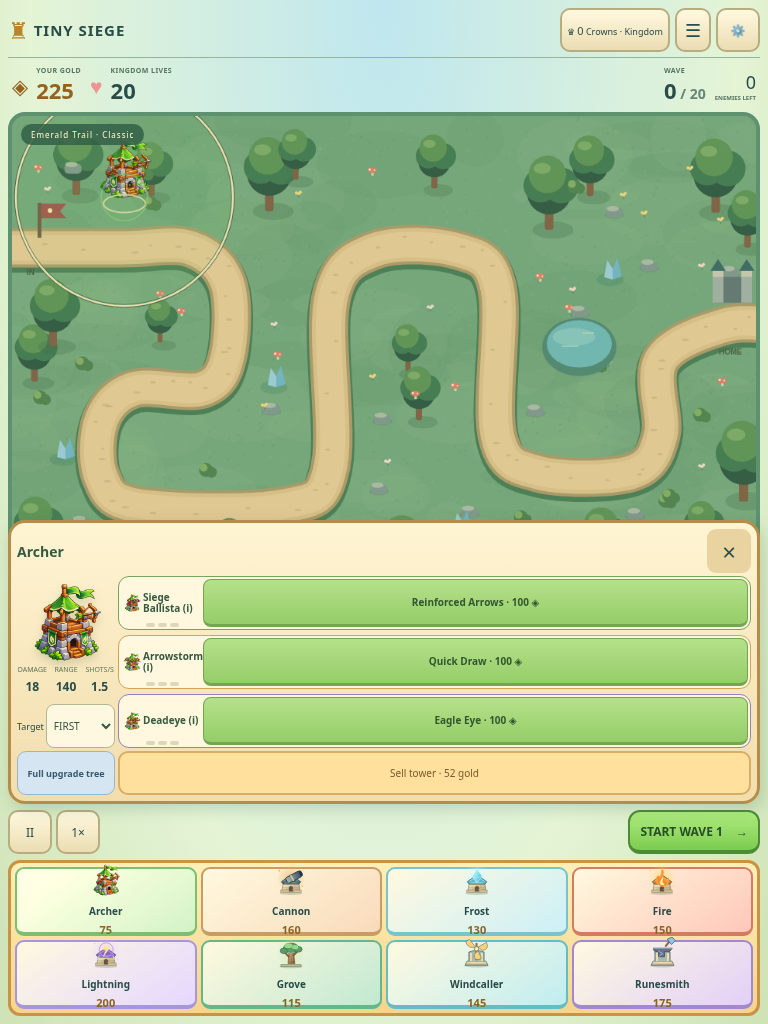
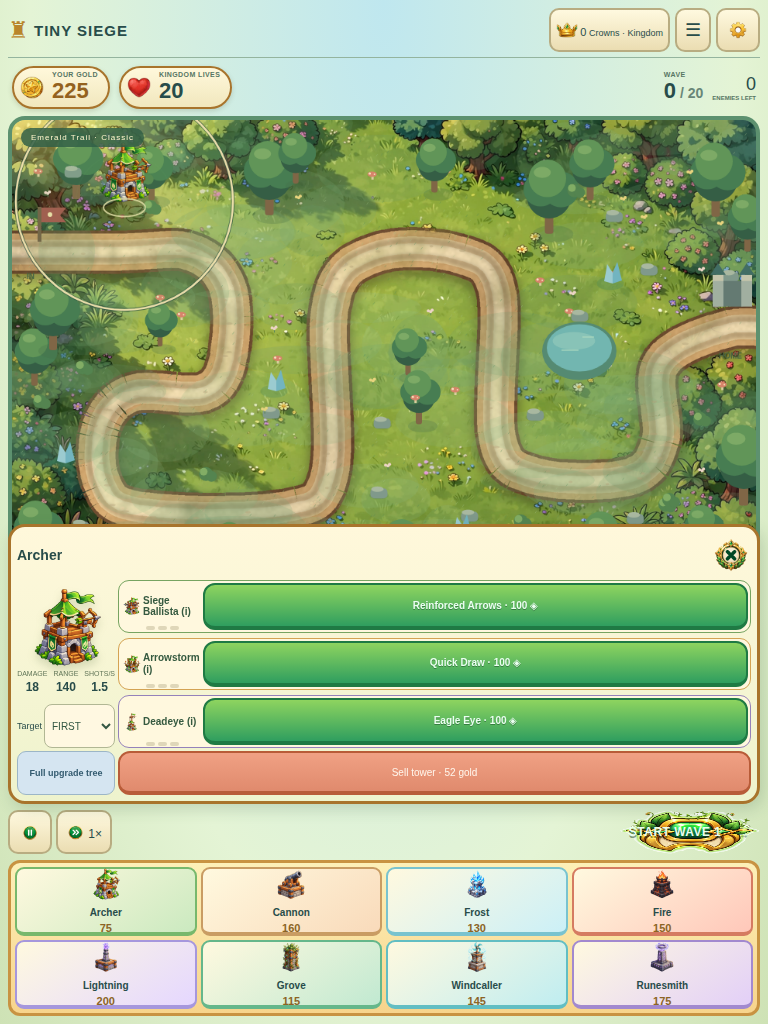
Wire illustrated hero sprites into battle; docs screenshots refresh

diff --git a/src/scenes/GameScene.js b/src/scenes/GameScene.js
@@ -13,6 +13,7 @@ import {
   enemyTexture,
 } from "../enemyArtwork.js";
 import { MAP_IDS, mapArtwork, mapTexture } from "../mapArtwork.js";
+import { heroArtwork, heroTexture } from "../heroArtwork.js";
 import Phaser from "phaser";
 import { textures, battlefield } from "./art.js";
 import {
@@ -61,11 +62,14 @@ export class GameScene extends Phaser.Scene {
             { width: 96, height: 100 },
           );
     }
-    for (const type of Object.keys(HEROES))
+    for (const type of Object.keys(HEROES)) {
       this.load.svg(`hero-${type}`, `${base}heroes/${type}.svg`, {
         width: 80,
         height: 84,
       });
+      if (heroTexture(type))
+        this.load.image(heroTexture(type), base + heroArtwork(type));
+    }
   }
   create() {
     textures(this);
@@ -497,14 +501,16 @@ export class GameScene extends Phaser.Scene {
       }
     const hero = this.model.hero;
     if (hero) {
-      if (!this.heroSprite)
+      if (!this.heroSprite) {
         this.heroSprite = this.add.image(
           hero.x,
           hero.y - 15,
-          `hero-${hero.type}`,
+          heroTexture(hero.type) || `hero-${hero.type}`,
         );
+        if (heroTexture(hero.type)) this.heroSprite.setDisplaySize(72, 72);
+      }
       this.heroSprite
-        .setTexture(`hero-${hero.type}`)
+        .setTexture(heroTexture(hero.type) || `hero-${hero.type}`)
         .setPosition(
           hero.x,
           hero.y - 15 + (this.model.paused ? 0 : Math.sin(time * 0.004) * 2),

diff --git a/src/heroArtwork.js b/src/heroArtwork.js
@@ -1,0 +1,11 @@
+// Illustrated hero sprites. Battle uses the adult stage; cards can use any.
+const FAMILY = { dragon: "dragon", dinosaur: "dino", tiger: "tiger" };
+export const HERO_STAGES = ["baby", "teen", "adult"];
+export function heroArtwork(type, stage = "adult", usage = "battlefield_256") {
+  const fam = FAMILY[type];
+  if (!fam || !HERO_STAGES.includes(stage)) return null;
+  return `assets/v5/heroes/${usage}/hero_${fam}_${stage}.png`;
+}
+export function heroTexture(type) {
+  return FAMILY[type] ? `v5-hero-${type}` : null;
+}

diff --git a/PR_DESCRIPTION.md b/PR_DESCRIPTION.md
@@ -1,0 +1,32 @@
+# Tiny Siege V5 — Illustrated UI & Full Artwork Integration (DRAFT — do not merge)
+
+Integrates the complete approved artwork package and the V5 illustrated UI.
+
+## Artwork imported
+
+- **Towers:** all 8 towers (Archer, Cannon, Frost, Fire, Lightning, Grove, Windcaller, Runesmith) × 25 A-B-C states = 200 states, as `battlefield_256` + `card_512` exports under `public/assets/v5/towers/`. The real Archer Tier-3 art replaces the PR #13 Tier-2 stand-ins — Tier 3 no longer falls back.
+- **Enemies:** all 14 illustrated sprites wired into GameScene (radius-based sizing, tint for armor states, no rotation on path turns).
+- **Maps:** all 7 hand-painted maps as battlefield backgrounds (painted mode skips the procedural background/road; route geometry verified).
+- **Heroes:** 18 sprites (6 families × 3 stages) under `public/assets/v5/heroes/`.
+- **UI kit:** 41 assets under `public/assets/v5/ui/` (optimized runtime copies only; the 42 MB master kit stays out of the repo and off startup).
+
+## UI
+
+All 9 screens per `UI_V5_SCREEN_LAYOUTS.md`: main menu, adventure select, pre-battle, hero collection, tower collection, relics, in-game menu, victory/defeat, gameplay HUD. All text is real HTML over illustrated shells (no baked text). Baloo 2 + Nunito.
+
+Fixes the reported overlaps: the upgrade panel docks without covering the right-rail shop, and hero ability controls no longer overlap the bottom shop cards.
+
+## Easter eggs (hidden)
+
+- Tap the main-menu logo 5× (or the gold counter 5× in battle) → cheat panel: **+10,000 gold**, **+10 waves** (jumps to the final wave when fewer than 10 remain).
+- **Jackson** and **Luke** sky-writing: golden firework letters across the sky, temporary, no gameplay effect.
+
+## Preserved
+
+All mechanics, progression, saves, Firebase schema/rules, difficulty coupling, and the enlarged mobile battlefield. Restart stays in the in-game menu behind confirmation.
+
+## Testing
+
+- Logic suite: 86/86 pass.
+- Browser suite: run at 844×390, 932×430, 390×844, iPad, and desktop sizes; screenshot gallery attached in PR comments.
+- No merge/deploy without owner approval.
